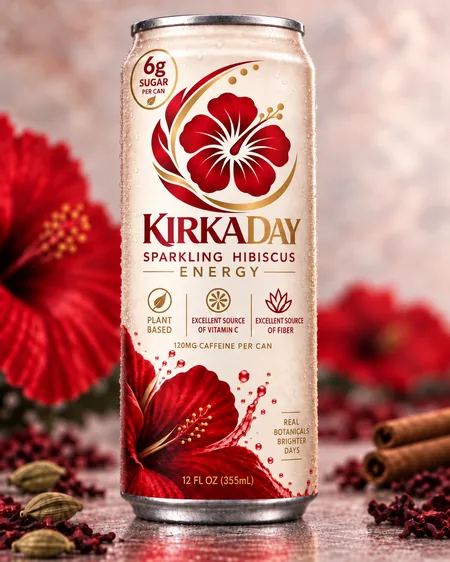
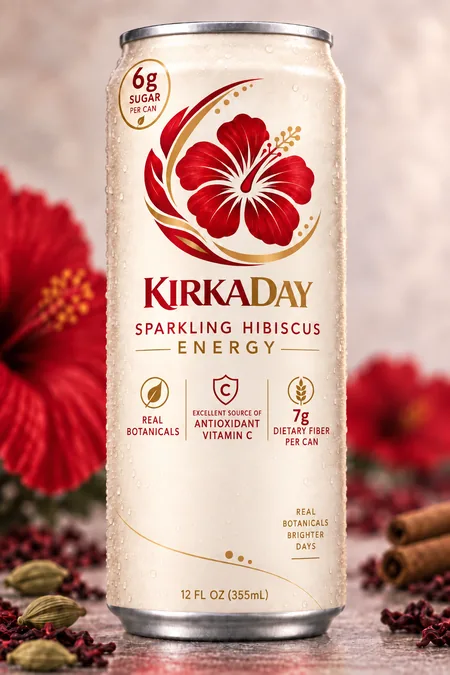
Swap the hero can for the updated design
The new render is 2:3 rather than 4:5, so the arched hero frame grows from
450x562 to 450x674 at desktop and 334x500 on a phone. Intrinsic width and
height attributes updated to match so nothing shifts on load.

diff --git a/index.html b/index.html
@@ -196,7 +196,7 @@
       <div data-rv="1" data-rv-delay="140" style="display:flex;justify-content:center;opacity:0;transform:translateY(30px);transition:opacity 1.1s cubic-bezier(.16,1,.3,1),transform 1.1s cubic-bezier(.16,1,.3,1)">
         <div data-parallax="0.05" style="position:relative;width:100%;max-width:450px">
           <div data-hero-frame="1" style="position:relative;overflow:hidden;border:1px solid rgba(190,154,66,0.55);border-radius:225px 225px 6px 6px;box-shadow:0 40px 80px -40px rgba(43,26,18,0.35)">
-            <picture><source type="image/webp" srcset="assets/can-beauty-450.webp 450w, assets/can-beauty-900.webp 900w" sizes="(max-width: 900px) 100vw, 450px"><img src="assets/can-beauty-900.jpg" alt="KirkaDay Sparkling Hibiscus Energy can" width="1122" height="1402" fetchpriority="high" style="display:block;width:100%;height:auto"></picture>
+            <picture><source type="image/webp" srcset="assets/can-beauty-450.webp 450w, assets/can-beauty-900.webp 900w" sizes="(max-width: 900px) 100vw, 450px"><img src="assets/can-beauty-900.jpg" alt="KirkaDay Sparkling Hibiscus Energy can" width="1024" height="1536" fetchpriority="high" style="display:block;width:100%;height:auto"></picture>
           </div>
           <div style="position:absolute;left:-14px;bottom:26px;writing-mode:vertical-rl;transform:rotate(180deg);font-size:10px;letter-spacing:0.3em;text-transform:uppercase;color:#8F6E1E">12 fl oz · 355 mL</div>
         </div>
